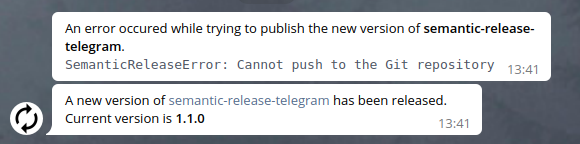
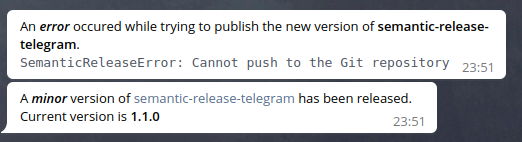
Docs: update screenshot to match new templates

diff --git a/bin/test.js b/bin/test.js
@@ -24,6 +24,7 @@ async function main(opts) {
         const options = {
             repositoryUrl : 'https://github.com/pustovitDmytro/semantic-release-telegram.git'
         };
+        const branch = { name: 'master' };
 
         if (opts.success) {
             const notes = '# [1.1.0](https://github.com/pustovitDmytro/semantic-release-test/compare/v1.0.0...v1.1.0) (2021-05-01)\n' +
@@ -50,14 +51,16 @@ async function main(opts) {
                 {
                     logger : console,
                     env    : { ...process.env },
-                    cwd    : path.resolve(rootDir)
+                    cwd    : path.resolve(rootDir),
+                    options,
+                    branch
                 }
             );
 
             await success.call(
                 context,
                 {},
-                { logger: console, nextRelease, options }
+                { logger: console, nextRelease }
             );
         }
 
@@ -68,7 +71,9 @@ async function main(opts) {
                 {
                     logger : console,
                     env    : { ...process.env },
-                    cwd    : path.resolve(rootDir)
+                    cwd    : path.resolve(rootDir),
+                    options,
+                    branch
                 }
             );
         }
@@ -86,14 +91,16 @@ async function main(opts) {
                 {
                     logger : console,
                     env    : { ...process.env },
-                    cwd    : path.resolve(rootDir)
+                    cwd    : path.resolve(rootDir),
+                    options,
+                    branch
                 }
             );
 
             await fail.call(
                 context,
                 {},
-                { logger: console, errors, options }
+                { logger: console, errors }
             );
         }
 

diff --git a/README.md b/README.md
@@ -20,8 +20,6 @@
 [![Commit activity][commit-activity-badge]][github]
 [![License][badge-lic]][github]
 
-![Usage Sample](.docs/sample-default_templates.png)
-
 ## Table of Contents
   - [Requirements](#requirements)
   - [Installation](#installation)
@@ -56,7 +54,9 @@ The plugin can be configured in the semantic-release [configuration file][sr-con
   ]
 }
 ```
-This is a minimal usage sample with a default configuration. 
+This is a minimal usage sample with a default configuration. Next messages will be sent:
+
+![Usage Sample](.docs/sample-default_templates.png)
 
 ### Configuration
 
